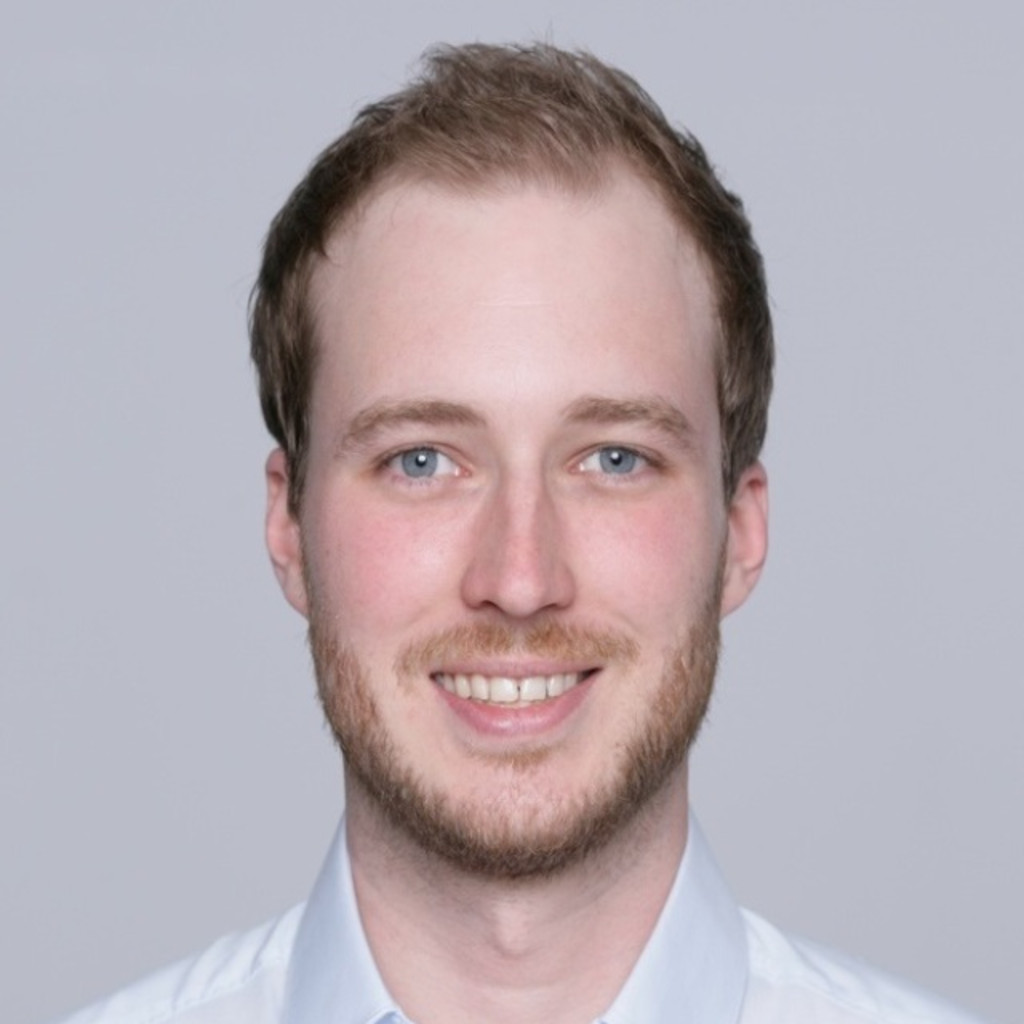
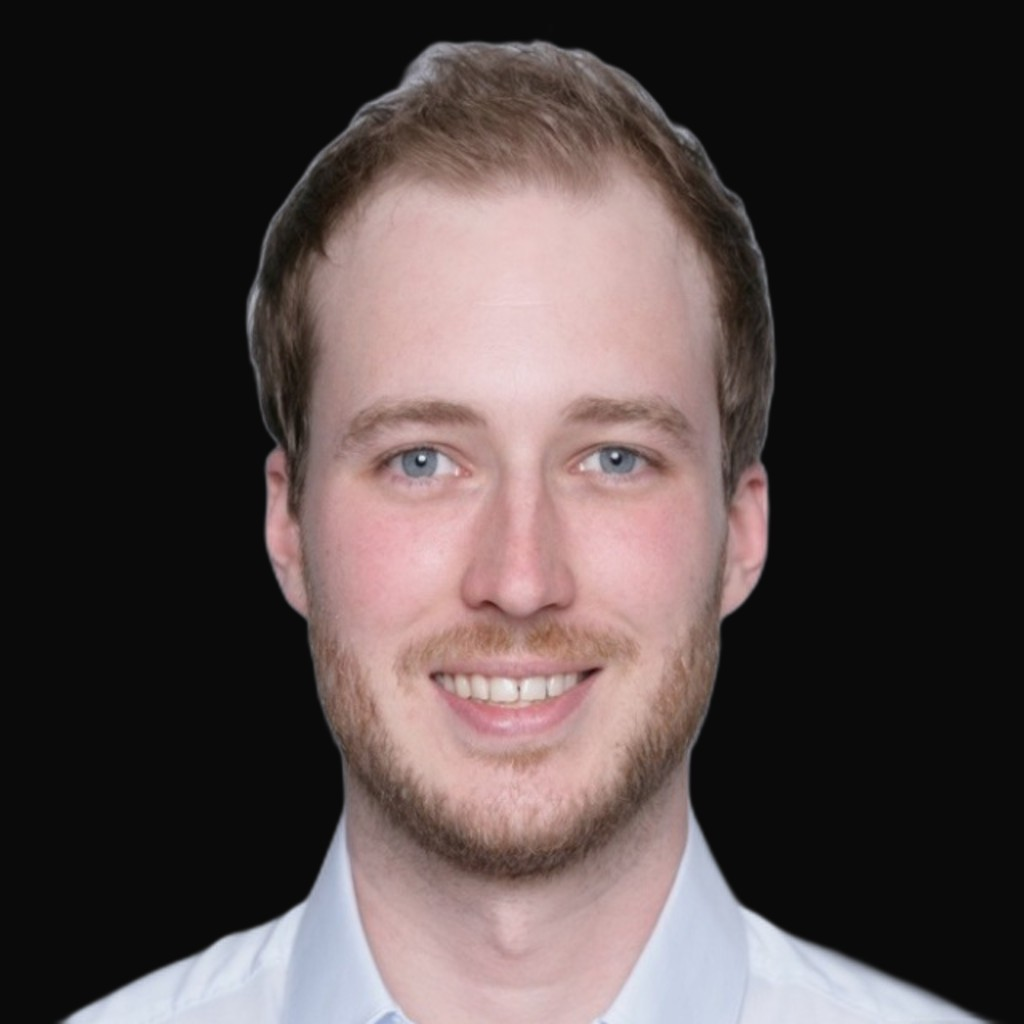
Pitch Deck: Mobile-Responsive + Jonas Foto schwarzer Hintergrund
- Komplette Media Queries für Mobile (<768px)
- Text, Grids, Layouts stacken vertikal auf Mobile
- Jonas Foto: grauer Hintergrund durch schwarz ersetzt (rembg)

diff --git a/public/pitch-Tallinn/index.html b/public/pitch-Tallinn/index.html
@@ -726,6 +726,85 @@
     font-size: 13px;
     color: #444;
   }
+
+  /* MOBILE */
+  @media (max-width: 768px) {
+    .slide { padding: 30px 20px; overflow-y: auto; }
+    h1 { font-size: 28px; }
+    h2 { font-size: 26px; margin-bottom: 16px; }
+    .subtitle { font-size: 16px; }
+    ul li { font-size: 18px; padding-left: 24px; }
+    ul li::before { top: 8px; width: 8px; height: 8px; }
+
+    /* Title slide */
+    .title-row { flex-direction: column; gap: 24px; }
+    .phone-frame { width: 160px; height: 330px; margin: 0 auto; }
+    .title-trust { gap: 10px; }
+    .title-trust span { font-size: 10px; }
+
+    /* Problem slide */
+    .problem-cols { grid-template-columns: 1fr; gap: 16px; }
+    .problem-col { padding: 16px; }
+    .problem-col li { font-size: 16px !important; }
+
+    /* Solution slide */
+    .solution-row { flex-direction: column; gap: 20px; }
+    .solution-mockup img { height: 240px; }
+
+    /* Steps */
+    .steps { flex-direction: column; gap: 12px; }
+    .step { padding: 12px 16px; }
+    .step .num { width: 28px; height: 28px; font-size: 14px; }
+    .step p { font-size: 14px; }
+    .mockup-gallery { gap: 8px; flex-wrap: wrap; justify-content: center; }
+    .phone-mini { transform: scale(0.7); margin: -10px; }
+
+    /* Pricing */
+    .pricing { grid-template-columns: 1fr 1fr; gap: 12px; }
+    .price-card { padding: 16px; }
+    .price-card h3 { font-size: 18px; }
+    .price-num { font-size: 28px; }
+
+    /* Why now / TAM */
+    .why-grid { grid-template-columns: 1fr; gap: 12px; }
+    .tam-cards { flex-direction: column; gap: 16px; }
+    .tam-card { min-width: unset; }
+
+    /* Go-to-market: stack vertically */
+    .slide[data-slide="8"] > div { flex-direction: column !important; }
+    .slide[data-slide="8"] > div > div:last-child { width: 100% !important; max-width: 200px; margin: 0 auto; }
+
+    /* Comparison */
+    .comparison { flex-direction: column; gap: 16px; }
+    .col { padding: 16px; }
+    .col li { font-size: 16px; }
+
+    /* Founders */
+    .founders { flex-direction: column; gap: 24px; }
+    .founder-card img, .founder-photo-placeholder { width: 100px; height: 100px; }
+
+    /* Milestones */
+    .milestones li { font-size: 16px; padding: 10px 12px 10px 36px; }
+
+    /* Internationalisierung */
+    .slide[data-slide="12"] .problem-cols { grid-template-columns: 1fr; }
+
+    /* CTA */
+    .cta-block .big { font-size: 20px; }
+    .contact-info { font-size: 16px; }
+
+    /* Gate screen */
+    #gate-screen input { width: 260px; font-size: 16px; padding: 12px 16px; }
+    #gate-btn { padding: 12px 32px; font-size: 16px; }
+    #gate-screen h2 { font-size: 22px; }
+
+    /* QR carousel */
+    .qr-carousel img { width: 120px !important; height: 120px !important; }
+
+    /* Nav hint */
+    .nav-hint { font-size: 11px; left: 20px; }
+    .slide-number { right: 20px; }
+  }
 </style>
 </head>
 <body>
